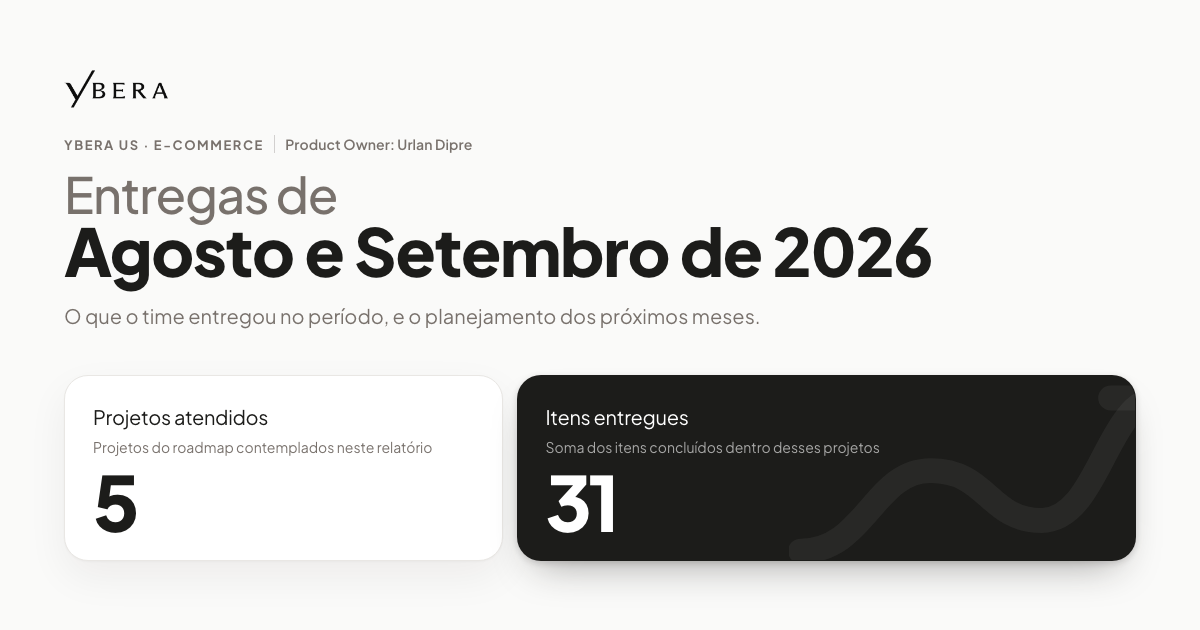
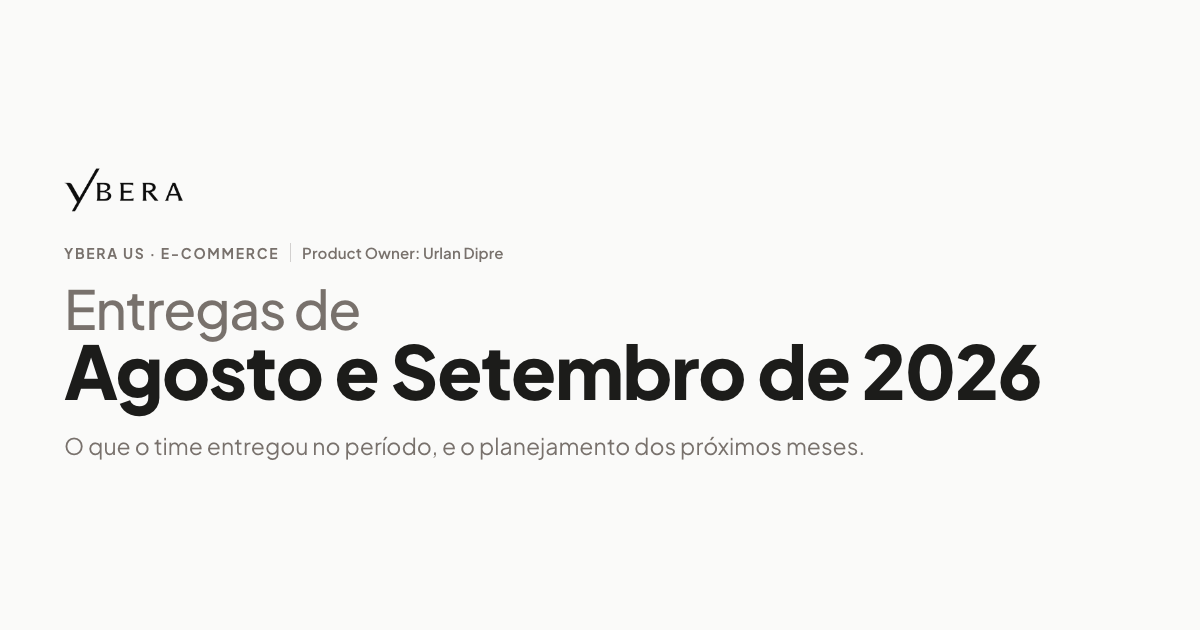
refactor: o cartaz do preview larga os números e fica só com o período
Decisão do Urlan — e a ausência deles é o que mantém a imagem honesta.
Contagem envelhece a cada PBI que muda de coluna no board, e o preview fica
preso no cache dos apps por tempo indeterminado: o cartaz diria 31 enquanto o
relatório já abre em 40. Período só muda quando o documento vira outro
documento, então virou a única coisa que a imagem afirma.

Com os dois blocos fora, o texto ocupa o cartão inteiro: título maior (74px —
o preview chega em miniatura na lista de conversas, e é o período que faz
alguém abrir) e a legenda sem teto de largura, que em 46ch quebrava deixando
"meses." sozinho na segunda linha.

O script perde dois argumentos e fica com um:

  ./scripts/og-entregas.sh "Outubro de 2026"

diff --git a/scripts/og/cartao-entregas.html b/scripts/og/cartao-entregas.html
@@ -15,14 +15,17 @@
      mesmo conteúdo do topo — marca, retranca, título, situação e os dois
      números — é remontado na proporção que WhatsApp, Slack e LinkedIn pedem.
 
-     COR, TIPO E FORMA SÃO COPIADOS de assets/entregas.css, não reinventados:
-     os tokens do :root, os dois pesos do título, o par de blocos (claro e
-     escuro) e a seta fantasma ao fundo do bloco escuro. Se a capa mudar de
-     desenho, este arquivo é o segundo lugar a mexer.
+     COR E TIPO SÃO COPIADOS de assets/entregas.css, não reinventados: os
+     tokens do :root e as duas vozes do título. Se a capa mudar de desenho,
+     este arquivo é o segundo lugar a mexer.
 
-     Os números NÃO são buscados: o link de leitura é um retrato, e a imagem
-     também. Entram por query string (?projetos=5&itens=31&periodo=...), que é
-     como o script passa os valores. -->
+     SEM os dois blocos de número da capa, por decisão do Urlan. E a ausência
+     deles é o que mantém esta imagem honesta: número envelhece a cada PBI que
+     muda de coluna no board, e um preview fica preso no cache dos apps por
+     tempo indeterminado — o cartaz diria 31 enquanto o relatório já abre em
+     40. Período não tem esse problema: ele só muda quando o documento vira
+     outro documento. É a única variável, e entra por query string
+     (?periodo=...), que é como o scripts/og-entregas.sh passa o valor. -->
 <link rel="preconnect" href="https://fonts.googleapis.com">
 <link rel="preconnect" href="https://fonts.gstatic.com" crossorigin>
 <link href="https://fonts.googleapis.com/css2?family=Plus+Jakarta+Sans:wght@400..800&display=block" rel="stylesheet">
@@ -55,27 +58,27 @@ body {
 .cartao {
   display: flex;
   flex-direction: column;
-  /* O bloco inteiro fica centrado na vertical, e o vão entre a situação e os
-     números é declarado (margin do .bento). Com `margin-top:auto` no .bento
-     toda a sobra de 1.91:1 caía num buraco só, no meio do cartão — e o preview
-     aparece pequeno, onde buraco no meio lê como imagem cortada. */
+  /* Centrado na vertical: o que sobra de 1.91:1 vira margem em cima e embaixo,
+     em partes iguais. Ancorado no topo, o texto ficaria pendurado com um vão
+     morto embaixo — e o preview aparece pequeno, onde vão morto lê como
+     imagem cortada. */
   justify-content: center;
   width: 1200px;
   height: 630px;
-  padding: 52px 64px;
+  padding: 64px;
 }
 
 /* `align-self` porque o cartão é um flex column: sem ele a marca herda o
    `stretch` do eixo cruzado, a largura vira a do cartão inteiro e o PNG sai
    com o logotipo esticado de ponta a ponta. `width:auto` sozinho não segura. */
-.logo { align-self: flex-start; display: block; height: 40px; width: auto; }
+.logo { align-self: flex-start; display: block; height: 46px; width: auto; }
 
 /* Retranca: a mesma de .rl-rotulo + .rl-capa-autoria, já na versão de telefone
    (onde e quem na MESMA linha, separados por um fio). Numa imagem larga a
    autoria numa linha própria sobraria no vazio. */
 .retranca {
-  margin: 26px 0 0;
-  font-size: 13px;
+  margin: 30px 0 0;
+  font-size: 14px;
   font-weight: 700;
   letter-spacing: 0.12em;
   text-transform: uppercase;
@@ -93,45 +96,22 @@ body {
 
 /* Título em duas vozes, como na capa: a linha fraca situa, a forte é o
    assunto. Em bloco e nos dois tamanhos do desktop (o topo do clamp). */
-.titulo { margin: 16px 0 0; line-height: 0.98; letter-spacing: -0.04em; }
+ /* Maior que na capa de propósito: o preview chega em miniatura na lista de
+    conversas, e é o período que faz alguém abrir. `balance` porque período
+    comprido ("Outubro e Novembro de 2026") quebra em duas linhas, e a quebra
+    padrão deixaria "de 2026" sozinho embaixo. */
+.titulo { margin: 20px 0 0; line-height: 0.98; letter-spacing: -0.04em; text-wrap: balance; }
 .titulo span { display: block; }
-.titulo-fraco { font-size: 50px; font-weight: 500; color: var(--mudo); }
-.titulo-forte { font-size: 66px; font-weight: 800; color: var(--tinta); }
+.titulo-fraco { font-size: 54px; font-weight: 500; color: var(--mudo); }
+.titulo-forte { font-size: 74px; font-weight: 800; color: var(--tinta); }
 
-.situacao { margin: 18px 0 0; max-width: 54ch; font-size: 20px; line-height: 1.5; color: var(--mudo); }
+/* Sem teto de largura, ao contrário da capa: lá a linha é curta de propósito
+   porque está numa coluna de leitura. Aqui ela é a legenda do cartaz e o
+   cartão tem 1072px úteis — segurá-la em 46ch quebrava a frase deixando
+   "meses." sozinho na segunda linha, que é a viúva clássica. `balance` cuida
+   do caso em que a legenda cresça e passe a quebrar de verdade. */
+.situacao { margin: 22px 0 0; font-size: 23px; line-height: 1.5; color: var(--mudo); text-wrap: balance; }
 
-/* Par de blocos da capa: o claro em 5 colunas, a âncora escura em 7. */
-.bento { display: grid; grid-template-columns: repeat(12, 1fr); gap: 14px; margin-top: 44px; }
-.bloco {
-  position: relative;
-  display: flex;
-  flex-direction: column;
-  gap: 12px;
-  min-width: 0;
-  padding: 26px 28px;
-  border: var(--fio);
-  border-radius: var(--raio-painel);
-  background: var(--superficie);
-  box-shadow: var(--sombra-painel);
-}
-.bloco-claro { grid-column: span 5; }
-.bloco-escuro {
-  grid-column: span 7;
-  overflow: hidden;
-  border-color: transparent;
-  background: var(--tinta);
-  color: #fff;
-  box-shadow: var(--sombra-escura);
-}
-.rot { position: relative; margin: 0; max-width: 26ch; font-size: 20px; line-height: 1.45; letter-spacing: -0.015em; }
-.bloco-escuro .rot { color: #fff; }
-.apoio { position: relative; margin: -6px 0 0; max-width: 40ch; font-size: 14px; line-height: 1.45; color: var(--mudo); }
-.bloco-escuro .apoio { color: rgba(255, 255, 255, 0.62); }
-/* O número encosta na base: é o que alinha os dois blocos na mesma linha
-   ótica, do mesmo jeito que o margin-top:auto de .rl-tile-num na capa. */
-.num { position: relative; margin: auto 0 0; font-size: 76px; font-weight: 800; line-height: 0.85; letter-spacing: -0.05em; }
-/* A seta fantasma ao fundo do bloco escuro, igual à da capa. */
-.fundo { position: absolute; right: -6%; bottom: -12%; width: 62%; height: auto; color: rgba(255, 255, 255, 0.055); }
 </style>
 </head>
 <body>
@@ -140,35 +120,13 @@ body {
   <p class="retranca" id="retranca"></p>
   <h1 class="titulo"><span class="titulo-fraco">Entregas de</span><span class="titulo-forte" id="periodo"></span></h1>
   <p class="situacao" id="situacao"></p>
-  <div class="bento">
-    <article class="bloco bloco-claro">
-      <p class="rot">Projetos atendidos</p>
-      <p class="apoio" id="apoio-projetos"></p>
-      <p class="num" id="projetos"></p>
-    </article>
-    <article class="bloco bloco-escuro">
-      <svg class="fundo" viewBox="0 0 200 120" aria-hidden="true" preserveAspectRatio="xMidYMid slice">
-        <path d="M6 104 C40 104 44 62 74 62 C104 62 104 88 132 88 C162 88 166 24 194 24" fill="none" stroke="currentColor" stroke-width="13" stroke-linecap="round"/>
-        <path d="M168 24 H194 V50" fill="none" stroke="currentColor" stroke-width="13" stroke-linecap="round" stroke-linejoin="round"/>
-      </svg>
-      <p class="rot">Itens entregues</p>
-      <p class="apoio">Soma dos itens concluídos dentro desses projetos</p>
-      <p class="num" id="itens"></p>
-    </article>
-  </div>
 </div>
 <script>
   var q = new URLSearchParams(location.search);
   var val = function (chave, padrao) { return q.get(chave) || padrao; };
-  var projetos = val('projetos', '5');
 
   document.getElementById('periodo').textContent = val('periodo', 'Agosto e Setembro de 2026');
   document.getElementById('situacao').textContent = val('situacao', 'O que o time entregou no período, e o planejamento dos próximos meses.');
-  document.getElementById('projetos').textContent = projetos;
-  document.getElementById('itens').textContent = val('itens', '31');
-  document.getElementById('apoio-projetos').textContent = projetos === '1'
-    ? 'Projeto do roadmap contemplado neste relatório'
-    : 'Projetos do roadmap contemplados neste relatório';
 
   var retranca = document.getElementById('retranca');
   retranca.textContent = val('retranca', 'Ybera US · E-commerce');

diff --git a/entregas.html b/entregas.html
@@ -15,10 +15,14 @@
      página vazia, não o relatório montado. O preview é um cartaz do documento,
      não um retrato do link.
 
-     Por isso o período e os números abaixo (e o assets/og-entregas.png) são
-     mantidos à mão, junto: quando o relatório virar outro mês, estas linhas e
-     a imagem mudam na mesma rodada, com ./scripts/og-entregas.sh. Preview que
-     diz 31 num relatório de 40 é pior que preview nenhum.
+     O que o cartaz afirma é só o PERÍODO, e isso é deliberado: contagem
+     envelhece a cada PBI que muda de coluna no board, e preview fica preso no
+     cache dos apps por tempo indeterminado — diria 31 enquanto o relatório já
+     abre em 40. Preview que mente é pior que preview nenhum. Período só muda
+     quando o documento vira outro documento.
+
+     Então quando o relatório virar outro mês, o og:title abaixo e a imagem
+     mudam na mesma rodada: ./scripts/og-entregas.sh "Outubro de 2026".
 
      A imagem leva o mesmo ?v= do resto: WhatsApp, Slack e LinkedIn guardam o
      preview por URL e não voltam pra conferir. Trocar o token é o que faz o
@@ -30,16 +34,16 @@
 <meta property="og:title" content="Entregas de Agosto e Setembro de 2026">
 <meta property="og:description" content="O que o time entregou no período, e o planejamento dos próximos meses.">
 <meta property="og:url" content="https://nivello-sistemas.github.io/ideias-e-inovacao/Central%20de%20Projetos/entregas.html">
-<meta property="og:image" content="https://nivello-sistemas.github.io/ideias-e-inovacao/Central%20de%20Projetos/assets/og-entregas.png?v=2026100101">
+<meta property="og:image" content="https://nivello-sistemas.github.io/ideias-e-inovacao/Central%20de%20Projetos/assets/og-entregas.png?v=2026100102">
 <meta property="og:image:type" content="image/png">
 <meta property="og:image:width" content="1200">
 <meta property="og:image:height" content="630">
-<meta property="og:image:alt" content="Capa do relatório: Entregas de Agosto e Setembro de 2026 — 5 projetos atendidos, 31 itens entregues.">
+<meta property="og:image:alt" content="Capa do relatório Ybera US · E-commerce: Entregas de Agosto e Setembro de 2026.">
 <meta name="twitter:card" content="summary_large_image">
 <link rel="preconnect" href="https://fonts.googleapis.com">
 <link rel="preconnect" href="https://fonts.gstatic.com" crossorigin>
 <link href="https://fonts.googleapis.com/css2?family=Plus+Jakarta+Sans:wght@400..800&display=swap" rel="stylesheet">
-<link rel="stylesheet" href="assets/entregas.css?v=2026100101">
+<link rel="stylesheet" href="assets/entregas.css?v=2026100102">
 </head>
 <!-- ENTREGAS. Não é uma versão do report: é outro documento, com duas seções
      (entregas recentes e roadmap) e linguagem de negócio. Usa o MESMO
@@ -85,10 +89,10 @@
   <p id="visor-legenda" class="rl-visor-legenda"></p>
 </dialog>
 
-<script src="assets/core.js?v=2026100101"></script>
-<script src="assets/api.js?v=2026100101"></script>
-<script src="assets/briefing-entregas.js?v=2026100101"></script>
-<script src="assets/report.js?v=2026100101"></script>
+<script src="assets/core.js?v=2026100102"></script>
+<script src="assets/api.js?v=2026100102"></script>
+<script src="assets/briefing-entregas.js?v=2026100102"></script>
+<script src="assets/report.js?v=2026100102"></script>
 <script>
 /* Visor da galeria — vive aqui, e não no report.js nem no briefing.
 

diff --git a/tests/og-entregas.test.js b/tests/og-entregas.test.js
@@ -86,8 +86,9 @@ test('preview: o cartaz conta a mesma história da capa', () => {
   assert.ok(situacao.includes(desc), 'og:description não é a linha de situação da capa');
   assert.equal(desc, meta('description'), 'a descrição do preview e a da página divergiram');
 
-  // O alt descreve a imagem pra quem usa leitor de tela no card, então ele
-  // carrega os números — e números que não batem com o título são ruído.
+  // O alt descreve a imagem pra quem usa leitor de tela no card. O que a
+  // imagem mostra é o período — se ele divergir do título, um dos dois está
+  // velho.
   const alt = meta('og:image:alt');
   assert.ok(alt.includes(titulo.replace('Entregas de ', '')), 'og:image:alt não cita o período do título');
 });
@@ -95,6 +96,20 @@ test('preview: o cartaz conta a mesma história da capa', () => {
 test('preview: o cartão grande, não a miniatura quadrada', () => {
   assert.equal(meta('twitter:card'), 'summary_large_image',
     'sem summary_large_image o X/LinkedIn mostram um selo pequeno em vez do cartaz');
+});
+
+test('preview: o cartaz não carrega contagem', () => {
+  // Decisão do Urlan, e ela é o que mantém a imagem honesta: contagem
+  // envelhece a cada PBI que muda de coluna no board, e o preview fica preso
+  // no cache dos apps por tempo indeterminado — diria 31 num relatório que já
+  // abre em 40. O período não tem esse problema, e por isso é a ÚNICA coisa
+  // que a imagem afirma. Reintroduzir número aqui é reintroduzir a mentira.
+  const molde = fs.readFileSync(path.join(__dirname, '../scripts/og/cartao-entregas.html'), 'utf8');
+  for (const campo of ['projetos', 'itens']) {
+    assert.ok(!molde.includes(`'${campo}'`), `o molde voltou a ler "${campo}" — o cartaz não conta itens`);
+  }
+  assert.doesNotMatch(meta('og:image:alt'), /\b\d+ (itens|projetos)\b/,
+    'o alt voltou a afirmar contagem, que envelhece presa no cache dos apps');
 });
 
 test('preview: o molde do cartão não vai pro ar', () => {

diff --git a/report-v2.html b/report-v2.html
@@ -7,7 +7,7 @@
 <link rel="preconnect" href="https://fonts.googleapis.com">
 <link rel="preconnect" href="https://fonts.gstatic.com" crossorigin>
 <link href="https://fonts.googleapis.com/css2?family=Plus+Jakarta+Sans:wght@400..800&display=swap" rel="stylesheet">
-<link rel="stylesheet" href="assets/report-v2.css?v=2026100101">
+<link rel="stylesheet" href="assets/report-v2.css?v=2026100102">
 </head>
 <!-- Report v2 ("Ledger"). Mesma página autônoma do v1 e o MESMO report.js: o
      que muda é quem desenha (assets/briefing-v2.js, que se registra no mesmo
@@ -38,9 +38,9 @@
 </div>
 <div id="caixa-link" class="caixa-link" hidden></div>
 
-<script src="assets/core.js?v=2026100101"></script>
-<script src="assets/api.js?v=2026100101"></script>
-<script src="assets/briefing-v2.js?v=2026100101"></script>
-<script src="assets/report.js?v=2026100101"></script>
+<script src="assets/core.js?v=2026100102"></script>
+<script src="assets/api.js?v=2026100102"></script>
+<script src="assets/briefing-v2.js?v=2026100102"></script>
+<script src="assets/report.js?v=2026100102"></script>
 </body>
 </html>

diff --git a/report.html b/report.html
@@ -7,7 +7,7 @@
 <link rel="preconnect" href="https://fonts.googleapis.com">
 <link rel="preconnect" href="https://fonts.gstatic.com" crossorigin>
 <link href="https://fonts.googleapis.com/css2?family=Plus+Jakarta+Sans:wght@400..800&display=swap" rel="stylesheet">
-<link rel="stylesheet" href="assets/style.css?v=2026100101">
+<link rel="stylesheet" href="assets/style.css?v=2026100102">
 </head>
 <!-- Página autônoma: só o report, sem as telas de acompanhamento do PO.
      Não existe header de aplicação aqui, de propósito: o documento é a página
@@ -36,9 +36,9 @@
 </div>
 <div id="caixa-link" class="caixa-link" hidden></div>
 
-<script src="assets/core.js?v=2026100101"></script>
-<script src="assets/api.js?v=2026100101"></script>
-<script src="assets/briefing.js?v=2026100101"></script>
-<script src="assets/report.js?v=2026100101"></script>
+<script src="assets/core.js?v=2026100102"></script>
+<script src="assets/api.js?v=2026100102"></script>
+<script src="assets/briefing.js?v=2026100102"></script>
+<script src="assets/report.js?v=2026100102"></script>
 </body>
 </html>

diff --git a/central.html b/central.html
@@ -7,7 +7,7 @@
 <link rel="preconnect" href="https://fonts.googleapis.com">
 <link rel="preconnect" href="https://fonts.gstatic.com" crossorigin>
 <link href="https://fonts.googleapis.com/css2?family=Plus+Jakarta+Sans:wght@400..800&display=swap" rel="stylesheet">
-<link rel="stylesheet" href="assets/style.css?v=2026100101">
+<link rel="stylesheet" href="assets/style.css?v=2026100102">
 </head>
 <body data-pagina="panorama">
 <div class="app">
@@ -168,8 +168,8 @@
   </form>
 </dialog>
 
-<script src="assets/core.js?v=2026100101"></script>
-<script src="assets/api.js?v=2026100101"></script>
-<script src="assets/app.js?v=2026100101"></script>
+<script src="assets/core.js?v=2026100102"></script>
+<script src="assets/api.js?v=2026100102"></script>
+<script src="assets/app.js?v=2026100102"></script>
 </body>
 </html>

diff --git a/index.html b/index.html
@@ -7,7 +7,7 @@
 <link rel="preconnect" href="https://fonts.googleapis.com">
 <link rel="preconnect" href="https://fonts.gstatic.com" crossorigin>
 <link href="https://fonts.googleapis.com/css2?family=Plus+Jakarta+Sans:wght@400..800&display=swap" rel="stylesheet">
-<link rel="stylesheet" href="assets/inicio.css?v=2026100101">
+<link rel="stylesheet" href="assets/inicio.css?v=2026100102">
 </head>
 <!-- Porta da pasta. O card do catálogo de Ideias e Inovação aponta pra pasta, e
      o Pages resolve nela este index.html — por isso a Central em si passou a se
